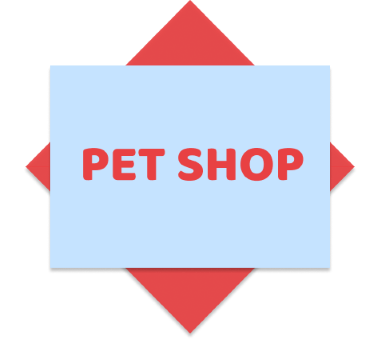
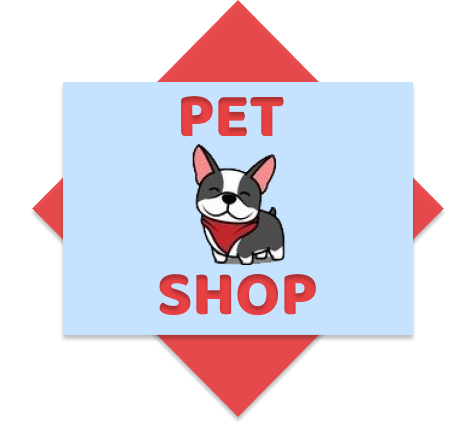
Commit frontend

diff --git a/src/pages/Register/styles.css b/src/pages/Register/styles.css
@@ -22,10 +22,15 @@
 }
 
 .register-container section.form header img {
-    height: 60px;
+    align-items: center;
+    display: flex;
+    margin-left: auto;
+    margin-right: auto;
+    height: 55px;
     width: 85%;
     max-width: 80%;
     top: 0px;
+    margin-bottom: 5px;
 }
 
 .register-container section.form header button {
@@ -41,7 +46,7 @@
 }
 
 .register-container section.form form {
-    margin-bottom: 270px;
+    margin-bottom: 253px;
 }
 
 .register-container section.form form button {
@@ -64,15 +69,4 @@
 
 .register-container section.form form button:hover {
     filter: brightness(90%);
-}
-
-.register-container section.form img {
-    align-items: center;
-    display: flex;
-    margin-left: auto;
-    margin-right: auto;
-    height: 55px;
-    max-width: 80%;
-    top: 0px;
-    margin-bottom: 5px;
 }

diff --git a/src/pages/Login/styles.css b/src/pages/Login/styles.css
@@ -45,10 +45,10 @@
     display: flex;
     margin-left: auto;
     margin-right: auto;
-    height: 150px;
+    height: 155px;
     max-width: 80%;
     top: 0px;
-    margin-bottom: 5px;
+    margin-bottom: 1px;
 }
 
 .link-register {

diff --git a/README.md b/README.md
@@ -1,6 +1,5 @@
 
 <p align="center">
-  <img alt="Dog" src=".github/dog_icon.png">
   <img alt="PetShop" src=".github/petshop_icon.png">
 </p>
 
